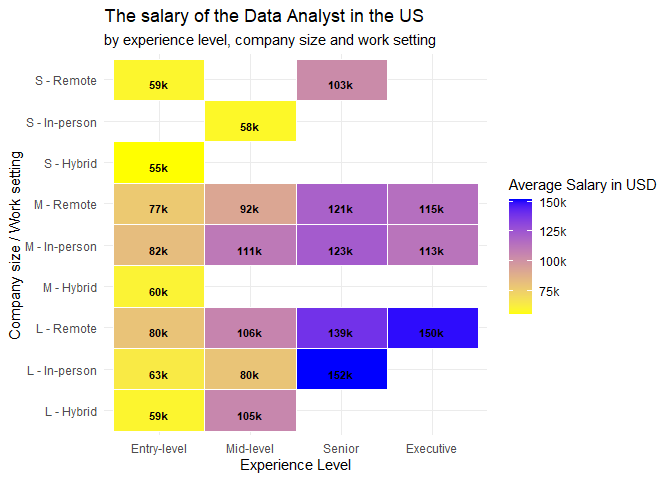
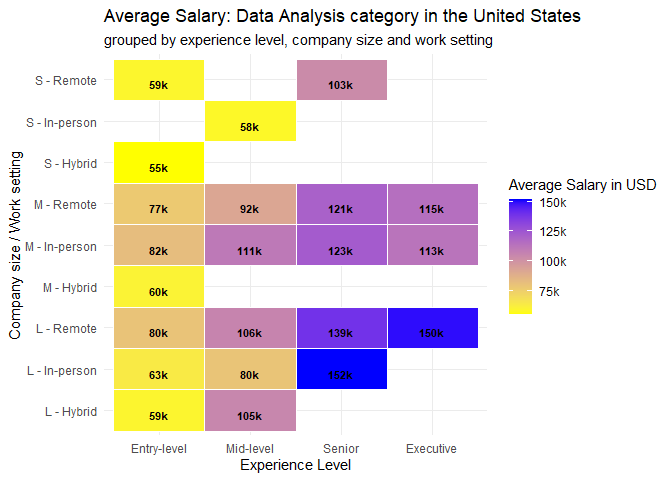
updating

Changed region(s): [[0.1562, 0.0, 0.875, 0.0938]]

diff --git a/Jobs_Salary_Data_Science.md b/Jobs_Salary_Data_Science.md
@@ -22,8 +22,8 @@ Jobs and Salaries in Data-Related Careers
   - [6.5 How does the work setting influence the Entry-level Data
     Analyst’s
     salary?](#65-how-does-the-work-setting-influence-the-entry-level-data-analysts-salary)
-  - [6.6 Scenario: Data Analysts profession in the United
-    States](#66-scenario-data-analysts-profession-in-the-united-states)
+  - [6.6 Scenario: Data Analysis career in the United
+    States](#66-scenario-data-analysis-career-in-the-united-states)
 - [7 Key Insights and
   Recommendations:](#7-key-insights-and-recommendations)
 
@@ -754,7 +754,7 @@ or remotely, with both having an average of 72-73k. However, the average
 salary is lower in a hybrid working setting, as shown in the
 visualization.
 
-## 6.6 Scenario: Data Analysts profession in the United States
+## 6.6 Scenario: Data Analysis career in the United States
 
 To eliminate salary differences between countries and ensure a fair
 comparison, I specifically analyzed the United States. The United States
@@ -786,7 +786,7 @@ ggplot(summary_table, aes(x = experience_level, y = company_setting, fill = aver
   geom_tile(color = "white", linewidth = 0.5) +  # Add borders to tiles
   geom_text(aes(label = scales::number_format(accuracy = 1, scale = 1e-3, suffix = "k")(average_salary)), vjust = 1, size = 3, fontface = "bold") +
   scale_fill_gradient(low = "yellow", high = "blue", name = "Average Salary in USD", labels = scales::number_format(accuracy = 1, scale = 1e-3, suffix = "k")) +  # Customize the color scale
-  labs(title = "The salary of the Data Analyst in the US", subtitle = "by experience level, company size and work setting",
+  labs(title = "Average Salary: Data Analysis category in the United States", subtitle = "grouped by experience level, company size and work setting",
        x = "Experience Level",
        y = "Company size / Work setting") +
   theme_minimal()  # Use a minimal theme 
